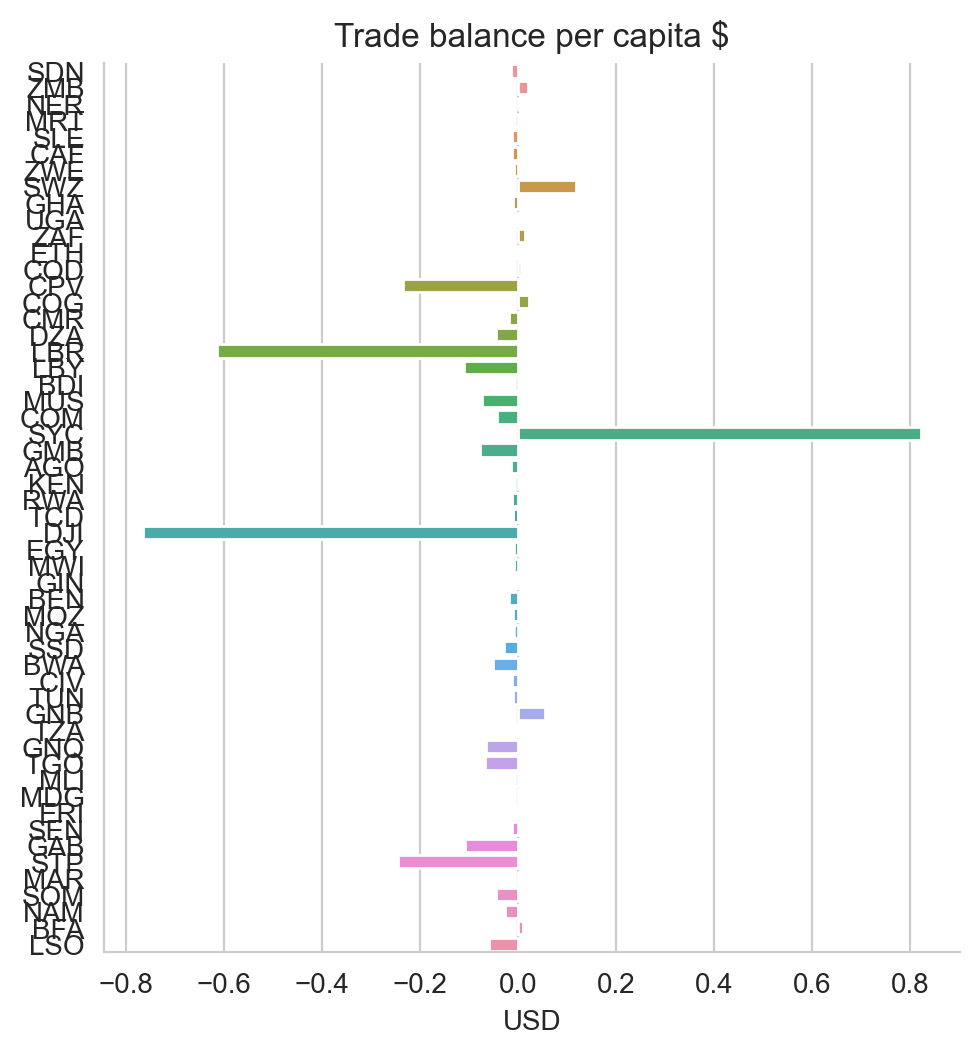
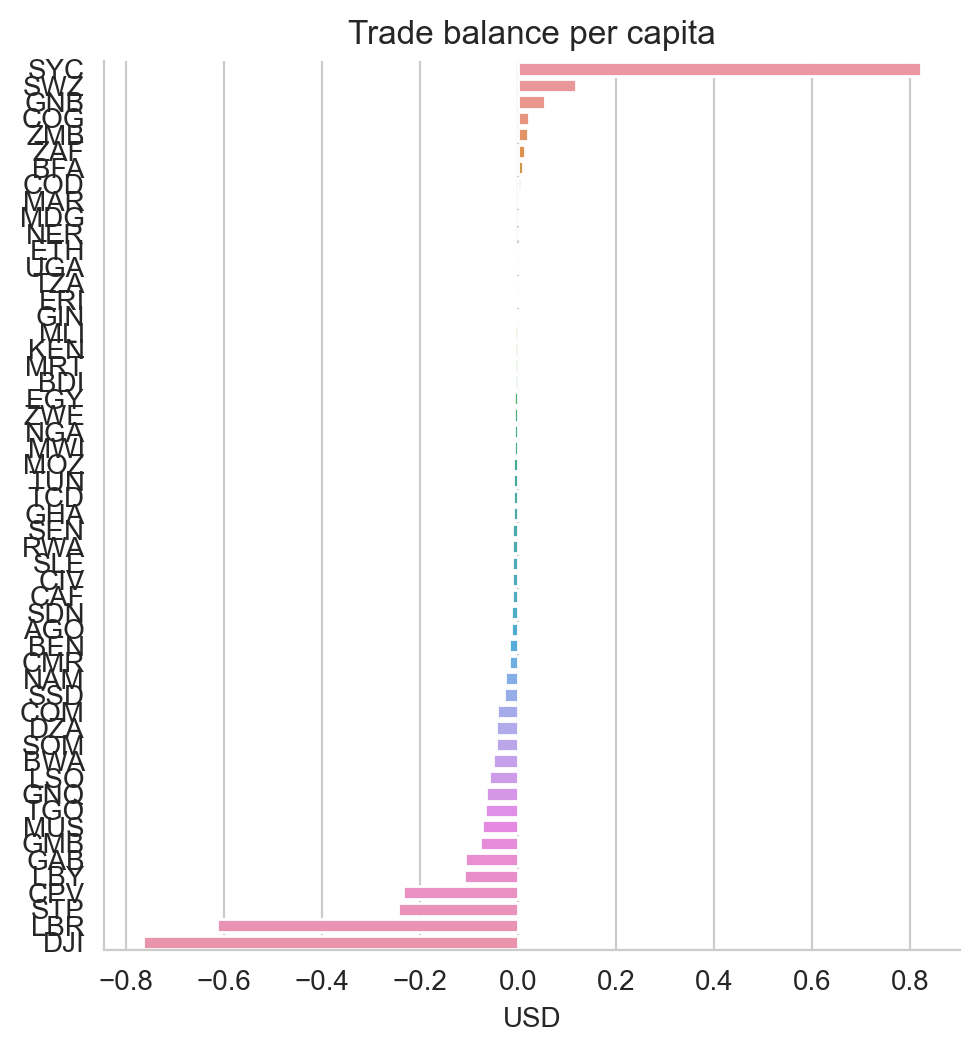
update remote

diff --git a/python/all_africa_debt_income_demogs.py b/python/all_africa_debt_income_demogs.py
@@ -62,16 +62,16 @@ all_countries_df_agg = (
     .groupby(['location_code'])
     .agg(
         pl.col('trade_bal_by_population').mean().alias('avg_trade_bal_per_capita')
-    )
-    # Sort polars dataframe in descending ordert by avg_trade_bal_per_capita    
-    )
+        )
+        .sort('avg_trade_bal_per_capita', reverse=True)
+)
 print(all_countries_df_agg.tail(20))
-
 
 # Convert polars table to png and save to output 
 # Write the code
 fig, ax = plt.subplots(figsize=(8, 8))
 sns.set_style("whitegrid")
+
 sns.factorplot(x='avg_trade_bal_per_capita', y='location_code', data=all_countries_df_agg.to_pandas(), kind='bar')
 plt.title('Trade balance per capita')
 plt.xlabel('USD')
